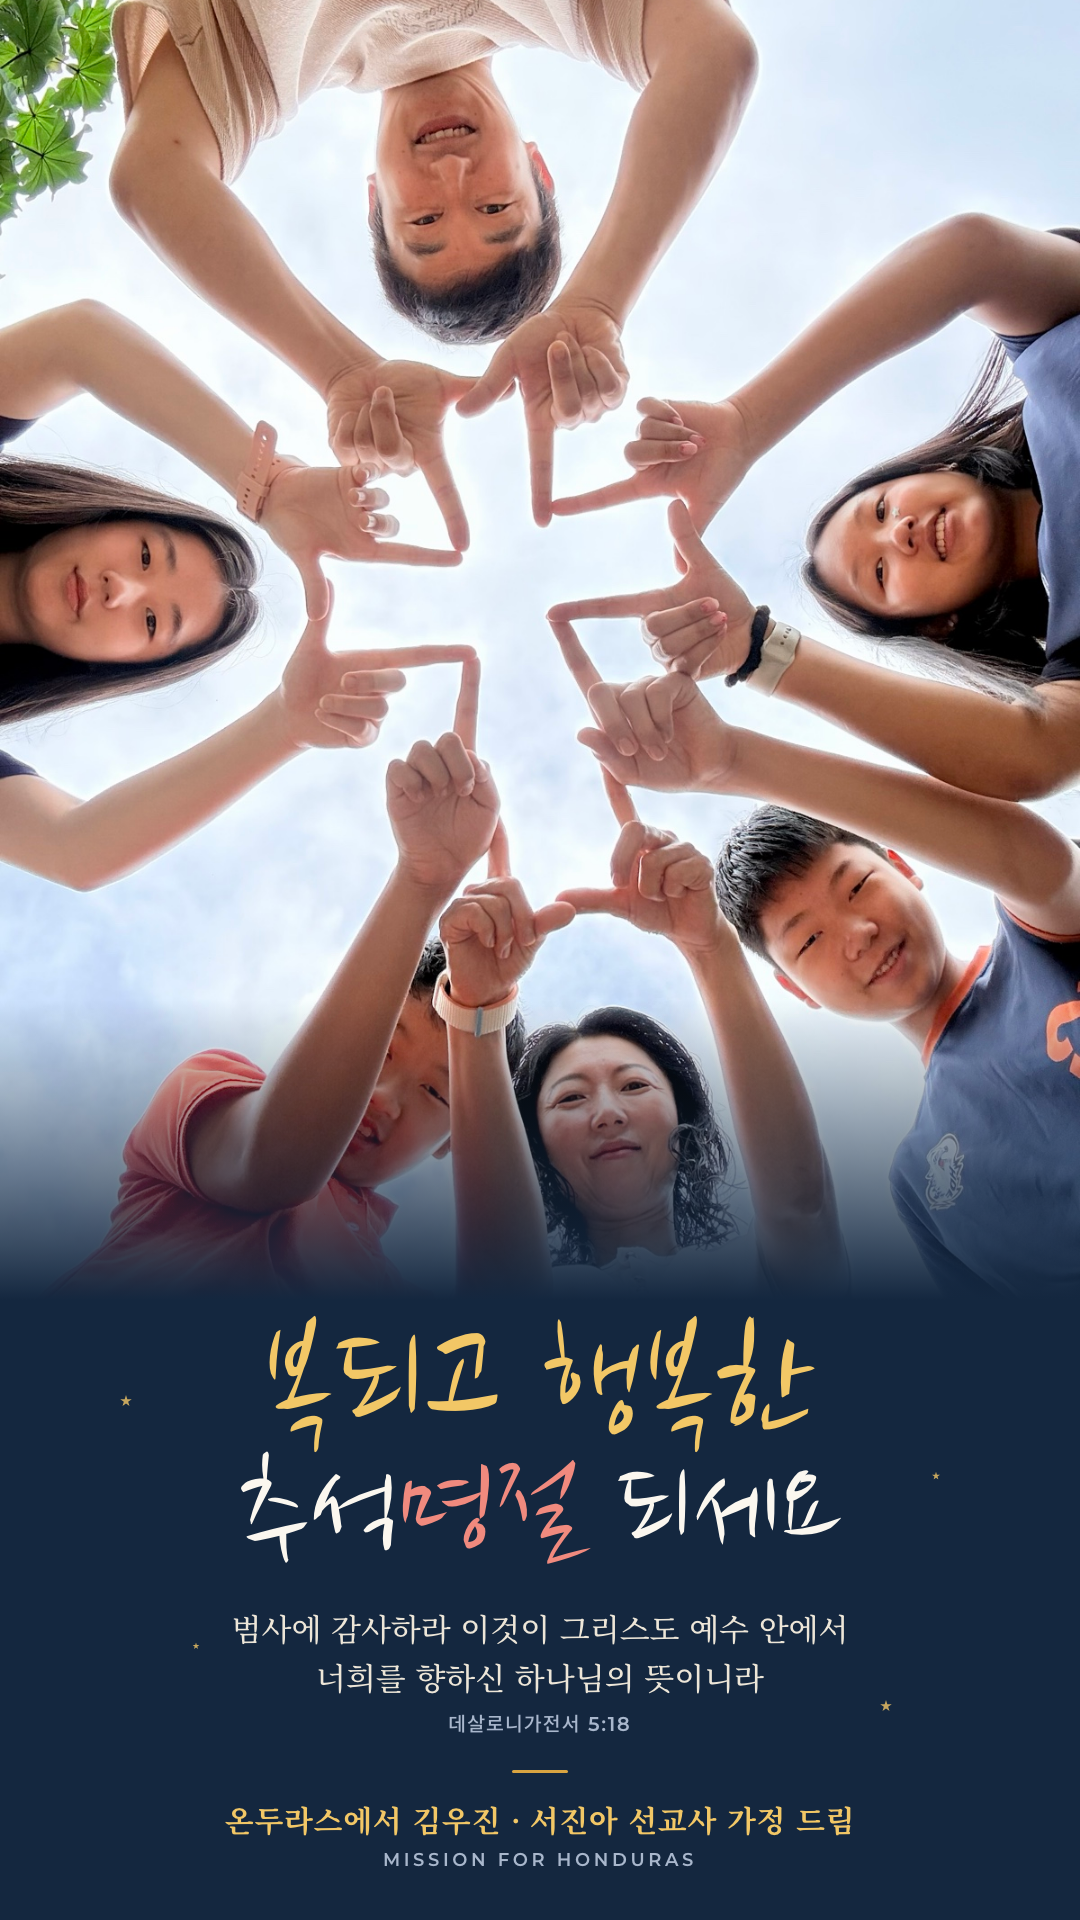
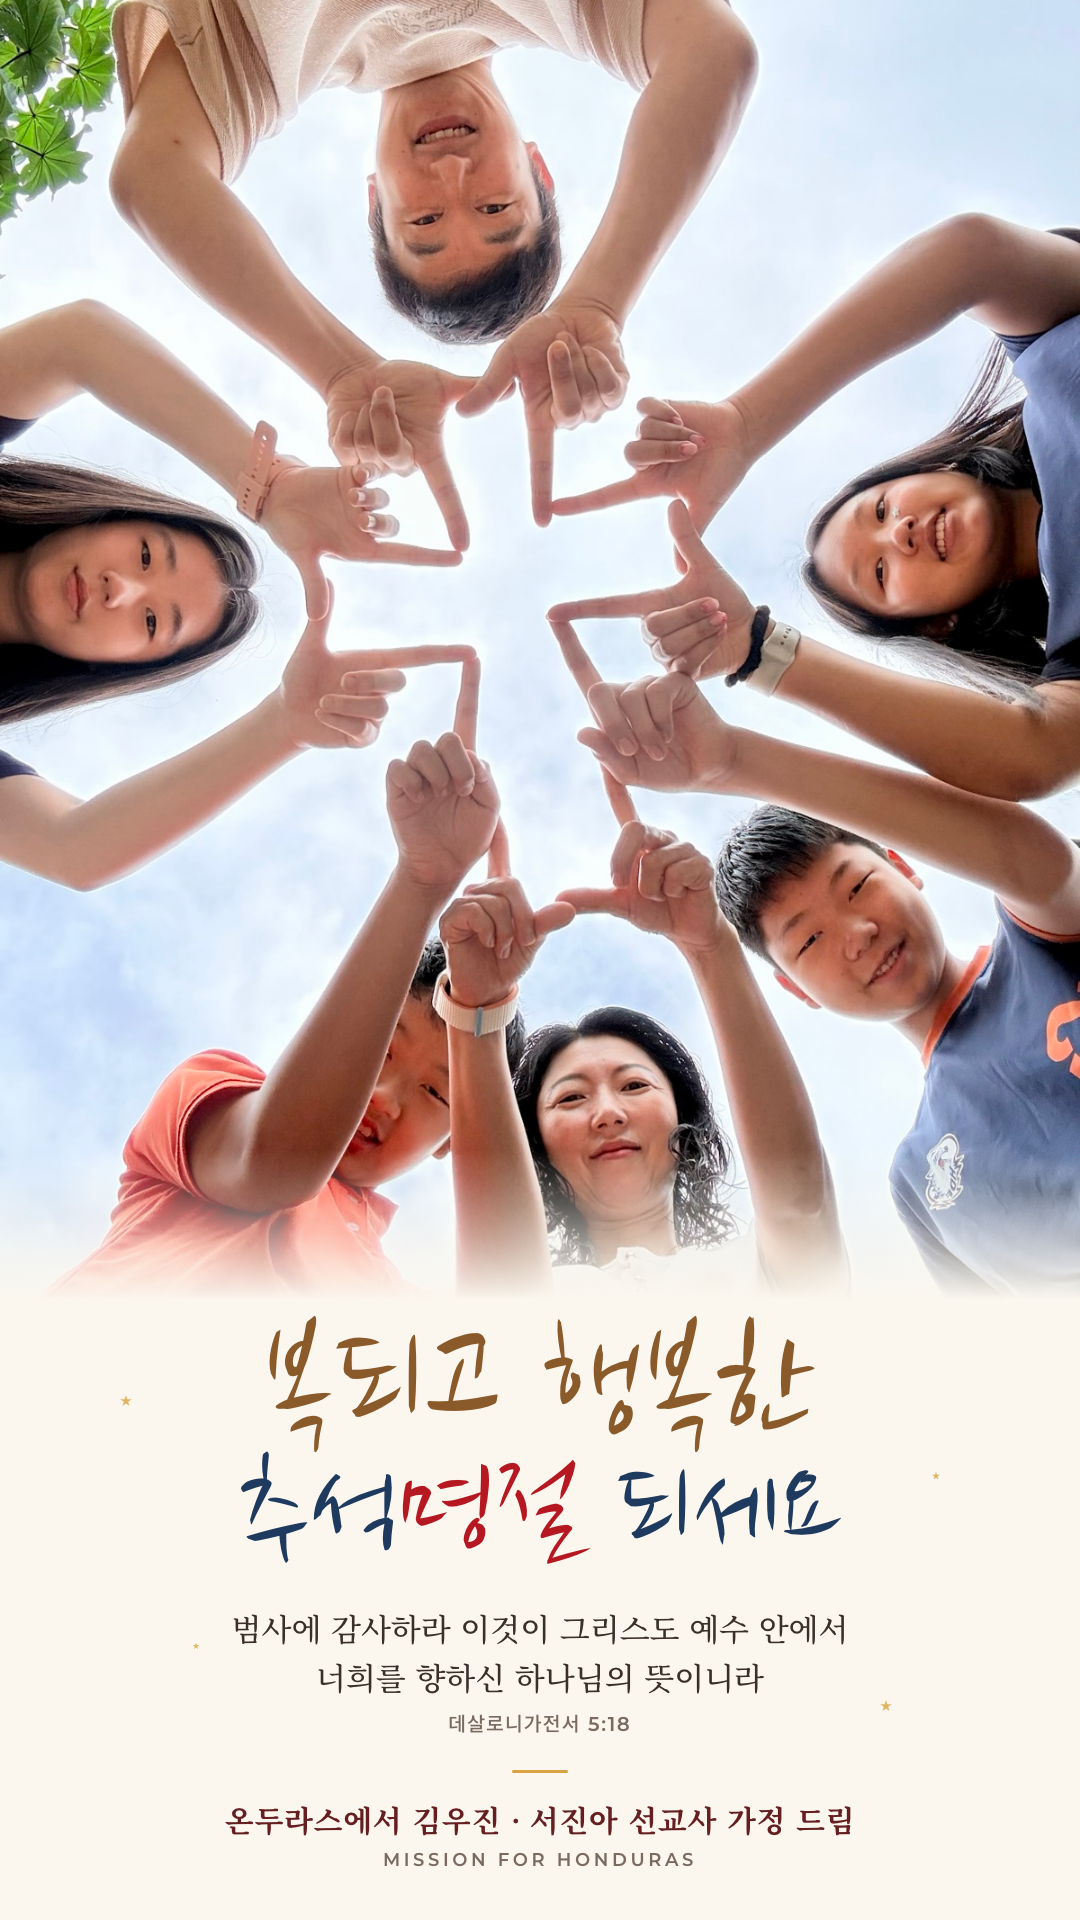
feat: add Chuseok 2026 message card

diff --git a/cards/chuseok-2026/message.md b/cards/chuseok-2026/message.md
@@ -1,4 +1,4 @@
-# 추석 2026 인사 메시지 (카드 B 네이비와 함께 발송)
+# 추석 2026 인사 메시지 (카드 A 크림과 함께 발송)
 
 ## 카카오톡 (개인·단톡, 짧게)
 복되고 행복한 추석 명절 되세요.
